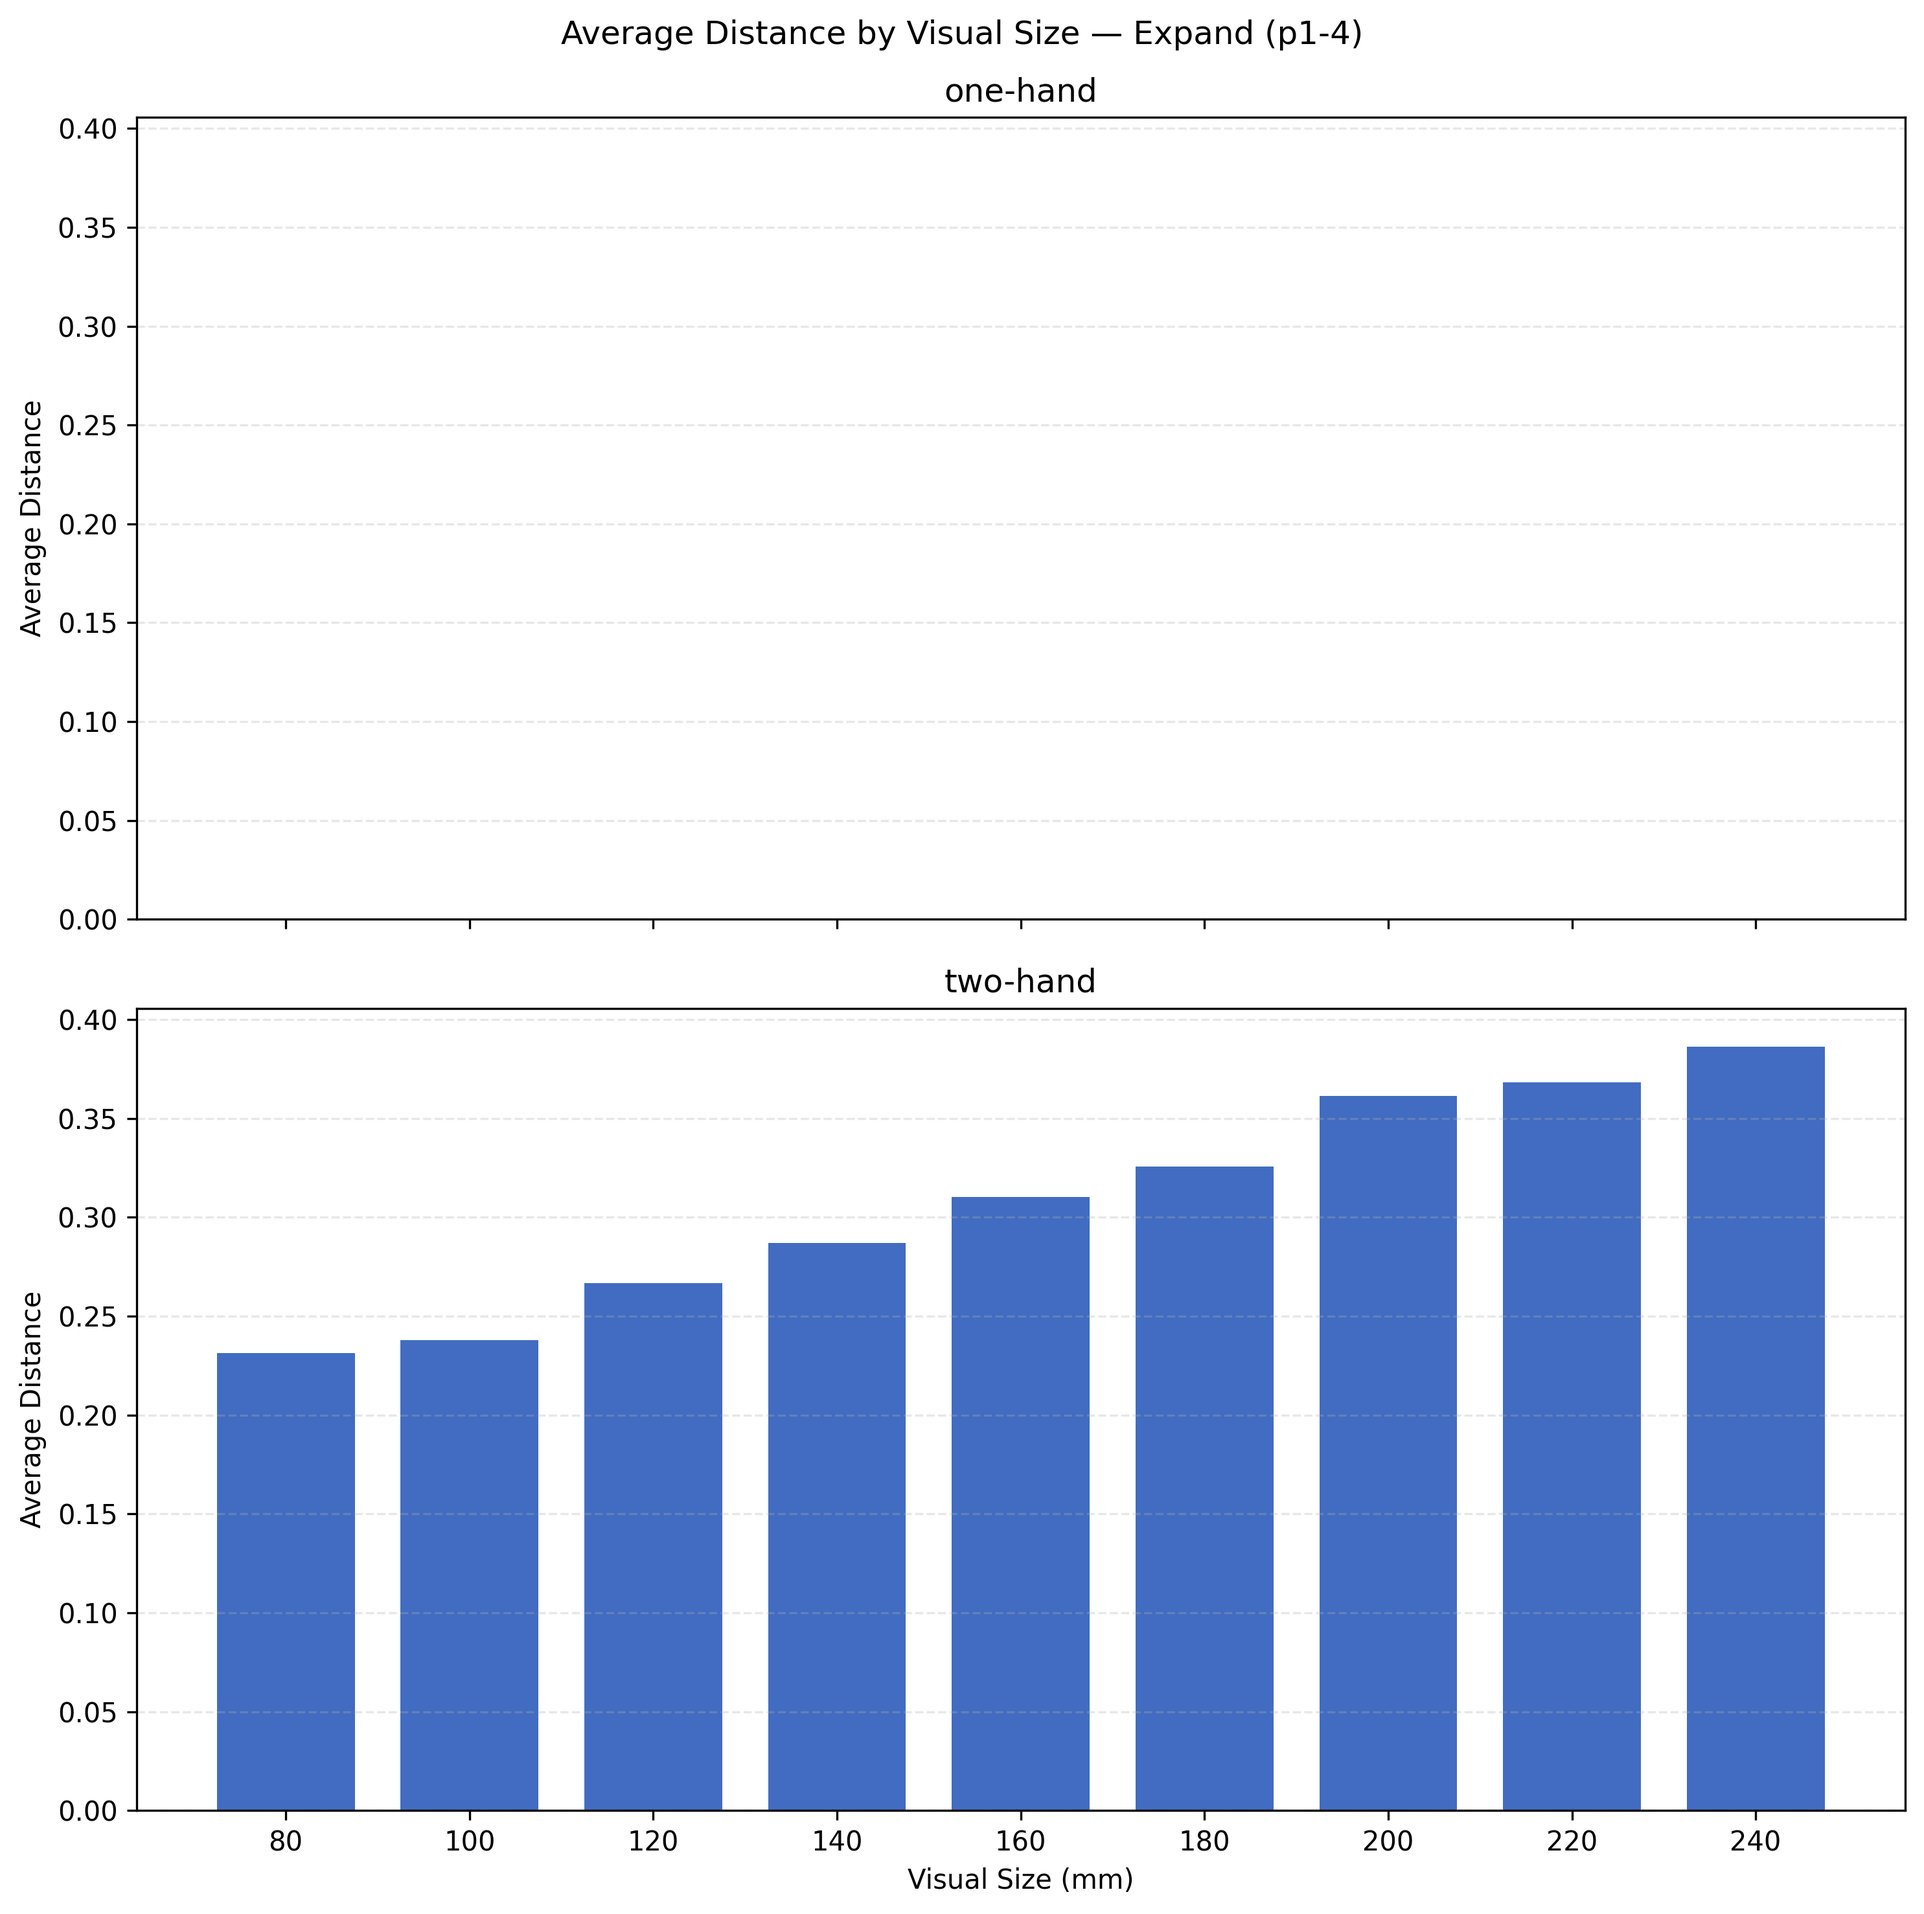
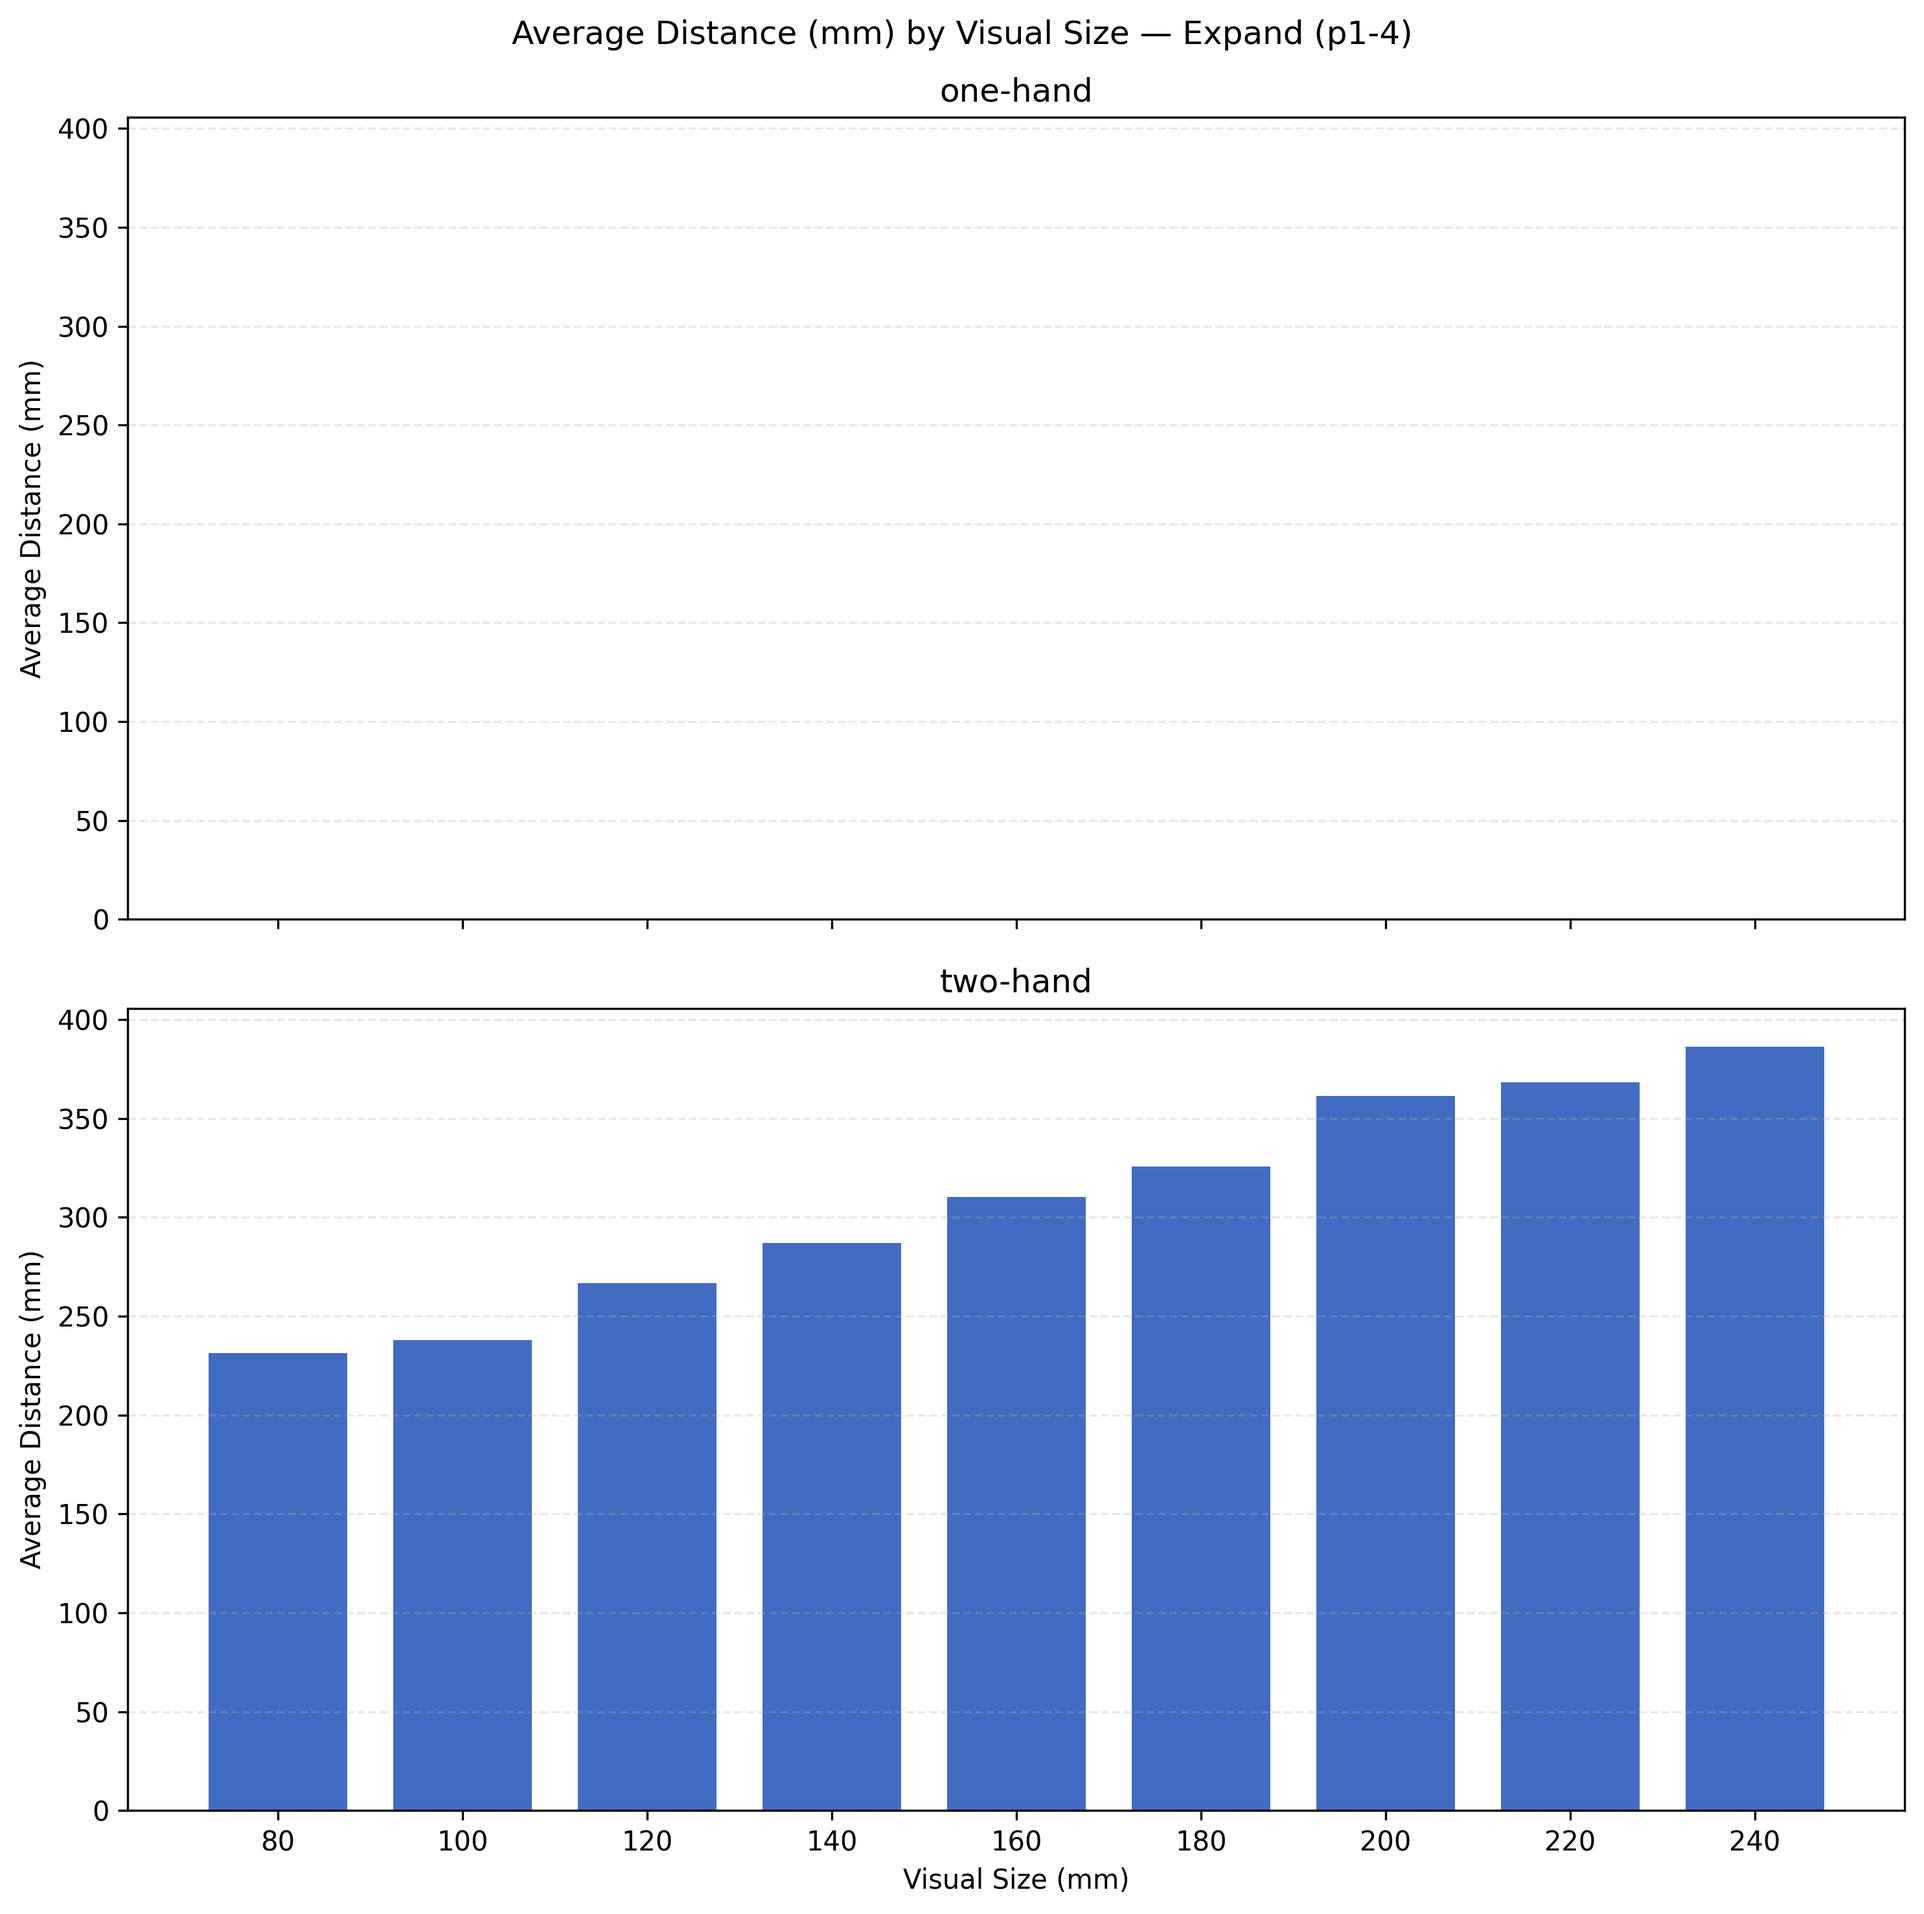
study 2 pilot analysis

diff --git a/Assets/data/study2_large/visualizer.py b/Assets/data/study2_large/visualizer.py
@@ -4,7 +4,7 @@ import pandas as pd
 import numpy as np
 import matplotlib.pyplot as plt
 
-pids = [3,4]
+pids = [1,2,3,4]
 
 data_dir = os.path.join(os.path.dirname(__file__), "p_sheets")
 csv_files = glob.glob(os.path.join(data_dir, "**", "*_conditions.csv"), recursive=True)
@@ -17,8 +17,18 @@ visual_sizes = sorted(all_df["visualSize"].unique())
 
 base_results = os.path.join(os.path.dirname(__file__), "results")
 
+def average_time_by_scenario(df, label):
+    print(f"\n--- Average Time by Scenario [{label}] ---")
+    for scenario in sorted(df["scenario"].unique()):
+        sdf = df[df["scenario"] == scenario]["time"]
+        q1, q3 = sdf.quantile(0.25), sdf.quantile(0.75)
+        iqr = q3 - q1
+        filtered = sdf[(sdf >= q1 - 1.5 * iqr) & (sdf <= q3 + 1.5 * iqr)]
+        print(f"  {scenario}: {filtered.mean():.3f} s  (n={len(filtered)})")
+
 def generate_figures(df, results_dir, label):
     os.makedirs(results_dir, exist_ok=True)
+    average_time_by_scenario(df, label)
 
     fig, axes = plt.subplots(len(scenarios), 1, figsize=(10, 5 * len(scenarios)), sharey=True, sharex=True)
     if len(scenarios) == 1:
@@ -49,7 +59,7 @@ def generate_figures(df, results_dir, label):
     plt.close()
 
     for metric, ylabel, filename in [("time", "Average Time (s)", "time.png"),
-                                      ("distance", "Average Distance", "distance.png")]:
+                                      ("distance", "Average Distance (mm)", "distance.png")]:
         fig, axes = plt.subplots(len(scenarios), 1, figsize=(10, 5 * len(scenarios)), sharey=True, sharex=True)
         if len(scenarios) == 1:
             axes = [axes]
@@ -57,12 +67,19 @@ def generate_figures(df, results_dir, label):
         for row, scenario in enumerate(scenarios):
             ax = axes[row]
             sdf = df[df["scenario"] == scenario]
+            if metric == "time":
+                q1, q3 = sdf["time"].quantile(0.25), sdf["time"].quantile(0.75)
+                iqr = q3 - q1
+                sdf = sdf[(sdf["time"] >= q1 - 1.5 * iqr) & (sdf["time"] <= q3 + 1.5 * iqr)]
             grouped = sdf.groupby("visualSize")[metric].mean()
+            values = grouped.values * 1000 if metric == "distance" else grouped.values
 
-            ax.bar(grouped.index, grouped.values, width=15, color='#416cc1')
+            ax.bar(grouped.index, values, width=15, color='#416cc1')
             ax.set_xticks(visual_sizes)
             ax.set_ylabel(ylabel)
             ax.set_title(scenario)
+            if metric == "time":
+                ax.set_ylim(0, 5)
             ax.grid(axis='y', linestyle='--', alpha=0.3)
 
             if row == len(scenarios) - 1:

diff --git a/Assets/data/study2_small/visualizer.py b/Assets/data/study2_small/visualizer.py
@@ -4,7 +4,7 @@ import pandas as pd
 import numpy as np
 import matplotlib.pyplot as plt
 
-pids = [3,4]
+pids = [1,2,3,4]
 
 data_dir = os.path.join(os.path.dirname(__file__), "p_sheets")
 csv_files = glob.glob(os.path.join(data_dir, "**", "*_conditions.csv"), recursive=True)
@@ -17,8 +17,18 @@ visual_sizes = sorted(all_df["visualSize"].unique())
 
 base_results = os.path.join(os.path.dirname(__file__), "results")
 
+def average_time_by_scenario(df, label):
+    print(f"\n--- Average Time by Scenario [{label}] ---")
+    for scenario in sorted(df["scenario"].unique()):
+        sdf = df[df["scenario"] == scenario]["time"]
+        q1, q3 = sdf.quantile(0.25), sdf.quantile(0.75)
+        iqr = q3 - q1
+        filtered = sdf[(sdf >= q1 - 1.5 * iqr) & (sdf <= q3 + 1.5 * iqr)]
+        print(f"  {scenario}: {filtered.mean():.3f} s  (n={len(filtered)})")
+
 def generate_figures(df, results_dir, label):
     os.makedirs(results_dir, exist_ok=True)
+    average_time_by_scenario(df, label)
 
     fig, axes = plt.subplots(len(scenarios), 1, figsize=(10, 5 * len(scenarios)), sharey=True, sharex=True)
     if len(scenarios) == 1:
@@ -49,7 +59,7 @@ def generate_figures(df, results_dir, label):
     plt.close()
 
     for metric, ylabel, filename in [("time", "Average Time (s)", "time.png"),
-                                      ("distance", "Average Distance", "distance.png")]:
+                                      ("distance", "Average Distance (mm)", "distance.png")]:
         fig, axes = plt.subplots(len(scenarios), 1, figsize=(10, 5 * len(scenarios)), sharey=True, sharex=True)
         if len(scenarios) == 1:
             axes = [axes]
@@ -57,12 +67,19 @@ def generate_figures(df, results_dir, label):
         for row, scenario in enumerate(scenarios):
             ax = axes[row]
             sdf = df[df["scenario"] == scenario]
+            if metric == "time":
+                q1, q3 = sdf["time"].quantile(0.25), sdf["time"].quantile(0.75)
+                iqr = q3 - q1
+                sdf = sdf[(sdf["time"] >= q1 - 1.5 * iqr) & (sdf["time"] <= q3 + 1.5 * iqr)]
             grouped = sdf.groupby("visualSize")[metric].mean()
+            values = grouped.values * 1000 if metric == "distance" else grouped.values
 
-            ax.bar(grouped.index, grouped.values, width=3, color='#416cc1')
+            ax.bar(grouped.index, values, width=3, color='#416cc1')
             ax.set_xticks(visual_sizes)
             ax.set_ylabel(ylabel)
             ax.set_title(scenario)
+            if metric == "time":
+                ax.set_ylim(0, 5)
             ax.grid(axis='y', linestyle='--', alpha=0.3)
 
             if row == len(scenarios) - 1:
